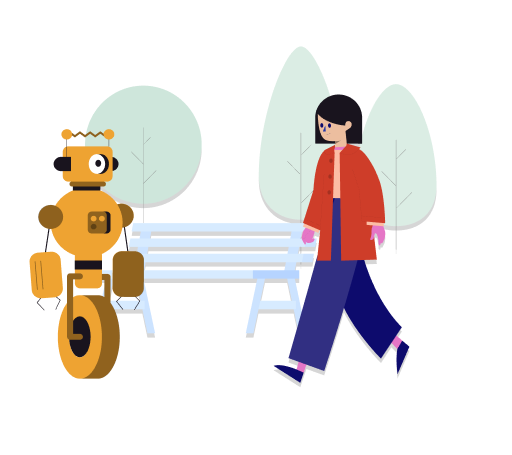
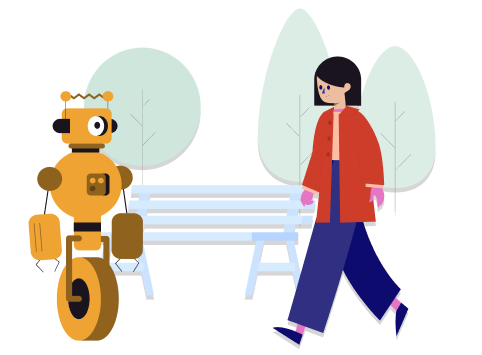
background img added

Changed region(s): [[0.0311, 0.031, 0.9025, 0.9915], [0.2801, 0.2789, 0.3112, 0.3099]]

diff --git a/src/app/landingpage/landingpage.component.scss b/src/app/landingpage/landingpage.component.scss
@@ -34,8 +34,15 @@ a {
   color: #867575;
 }
 
+#login-btn {
+  color: #174D9B;
+  text-shadow: 0px 1px 1px rgba(0, 0, 0, 0.25);
+  font-style: normal;
+  font-weight: bold;
+}
+
 .explore {
-  width: 50px;
+  width: auto;
   position: fixed;
   top: 50%;
   left: 0;
@@ -48,12 +55,18 @@ a {
   font-style: normal;
   font-weight: bold;
   text-align: center;
-  padding-left: 15px;
+  padding-left: 40px;
   color: #867575;
   padding-bottom: 15px;
   padding-top: 15px;
 }
 
+img {
+  object-fit: cover;
+  margin-left: auto;
+  margin-right: auto;
+  display: block;
+}
 
 
 .container {
@@ -61,10 +74,6 @@ a {
   margin-left: 5rem;
   margin-right: 5rem;
   background-color: rgb(163, 163, 163);
-  /* CSS Smooth Scroll */
-  overflow-y: scroll; 
-  scroll-behavior: smooth;
-  scroll-snap-type: y mandatory;
 }
 
 .collapse {
@@ -74,30 +83,13 @@ a {
 #about,
 #vision,
 #login {
-  padding: 20px 10px;
+  padding: 30px 10px;
   display: flex;
   align-items: center;
   flex-wrap: wrap;
   height: 512px;
-  margin: 0 auto;
+  margin: 5em auto;
   //background-image: src('assets/img/svg2.png');
-}
-
-.section{
-   /* Scroll Snap */
-   scroll-snap-align: center;
-}
-
-section#about{
-  background:no-repeat center center/cover;;
-}
-
-section#vision{
-  background:no-repeat center center/cover;;
-}
-
-section#login{
-  background:no-repeat center center/cover;;
 }
 
 .about-left-col h2 {
@@ -105,19 +97,22 @@ section#login{
   font-style: Regular;
   font-size: 25px;
   vertical-align: Top;
+  margin-left: 10px;
+  //margin-top: 10px;
   color: Solid #000000;
-  Offset: 0px, 4px rgba(0, 0, 0, 0.25);
+  letter-spacing: 2px;
 }
 
 .about-left-col {
   flex-basis: 50%;
-  padding: 0 0 30px 30px;
+  padding: 30px 0 30px 30px;
+  height: 512px;
 }
 
 .about-left-col p {
   font-Family: Ruluko;
   font-Style: Regular;
-  font-Size: 20px;
+  font-Size: px;
   line-height: 137%;
   color: #5C5757;
 }
@@ -126,6 +121,7 @@ section#login{
   flex-basis: 50%;
   padding: 0 30px 0 30px;
   border-width: 1px;
+  height: 512px;
   justify-content: center;
   align-self: center;
 }
@@ -138,20 +134,23 @@ section#login{
   font-family: Ruluko;
   font-style: Regular;
   font-size: 25px;
+  margin-left: 10px;
+  margin-top: 10px;
   vertical-align: Top;
   color: Solid #000000;
-  Offset: 0px, 4px rgba(0, 0, 0, 0.25);
+  letter-spacing: 2px;
 }
 
 .vision-left-col {
   flex-basis: 50%;
   padding: 0 0 30px 30px;
+  height: 512px;
 }
 
 .vision-left-col p {
   font-Family: Ruluko;
   font-Style: Regular;
-  font-Size: 20px;
+  font-Size: 16px;
   line-height: 137%;
   color: #5C5757;
 }
@@ -160,6 +159,7 @@ section#login{
   flex-basis: 50%;
   padding: 0 0 30px 30px;
   border-width: 1px;
+  height: 512px;
   border-color: solid red;
 }
 
@@ -171,20 +171,23 @@ section#login{
   font-family: Ruluko;
   font-style: Regular;
   font-size: 25px;
+  margin-left: 10px;
+  margin-top: 10px;
   vertical-align: Top;
   color: Solid #000000;
-  Offset: 0px, 4px rgba(0, 0, 0, 0.25);
+  letter-spacing: 2px;
 }
 
 .login-left-col {
   flex-basis: 50%;
   padding: 0 0 30px 30px;
+  height: 512px;
 }
 
 .login-left-col p {
   font-Family: Ruluko;
   font-Style: Regular;
-  font-Size: 20px;
+  font-Size: 16px;
   line-height: 137%;
   color: #5C5757;
 }
@@ -194,8 +197,24 @@ section#login{
   padding: 0 0 30px 30px;
   border-width: 1px;
   border-color: solid red;
+  height: 512px;
 }
 
 .login-text {
   padding: 3rem;
+}
+
+.footer {
+  display: flex;
+  margin-left: 5rem;
+  margin-right: 5rem;
+}
+
+.footer p {
+  font-Family: Ruluko;
+  font-Style: Regular;
+  font-Size: 15px;
+  color: #5C5757;
+  padding: 10px;
+  align-content: center;
 }

diff --git a/src/app/landingpage/landingpage.component.html b/src/app/landingpage/landingpage.component.html
@@ -1,4 +1,5 @@
-<div class="bg-img">
+<div class="bg-img"
+  [ngStyle]="{'background-image': getUrl(), 'background-attachment': 'fixed', 'background-size' : 'contain','background-repeat': 'no-repeat','background-position': 'center'}">
   <!--toolbar-->
   <div class="header">
     <nav class="navbar fixed-top navbar-expand-lg navbar-light">
@@ -13,7 +14,7 @@
           <a class="nav-item nav-link" href="#vision">Vision</a>
           <a class="nav-item nav-link" href="#">Contact Us</a>
           <a class="nav-item nav-link " href="#">Subscription</a>
-          <a class="nav-item nav-link " href="#login">LOGIN</a>
+          <a class="nav-item nav-link " href="#login" id="login-btn">LOGIN</a>
         </div>
       </div>
     </nav>
@@ -159,6 +160,8 @@
     </div>
   </section>
 
-
+  <div class="footer">
+    <p> Copyright 2020 PREPEASE | Privacy Policy</p>
+  </div>
 
 </div>

diff --git a/src/index.html b/src/index.html
@@ -3,7 +3,7 @@
 
 <head>
   <meta charset="utf-8">
-  <title>LandingPage</title>
+  <title>Welcome-PrepEase</title>
   <base href="/">
   <meta name="viewport" content="width=device-width, initial-scale=1">
   <link rel="icon" type="image/x-icon" href="favicon.ico">

diff --git a/src/app/landingpage/landingpage.component.ts b/src/app/landingpage/landingpage.component.ts
@@ -14,5 +14,8 @@ export class LandingpageComponent implements OnInit {
   ngOnInit(): void {
   }
 
+  getUrl() {
+    return "url('/assets/img/streetlight.png')";
+  }
 
 }
